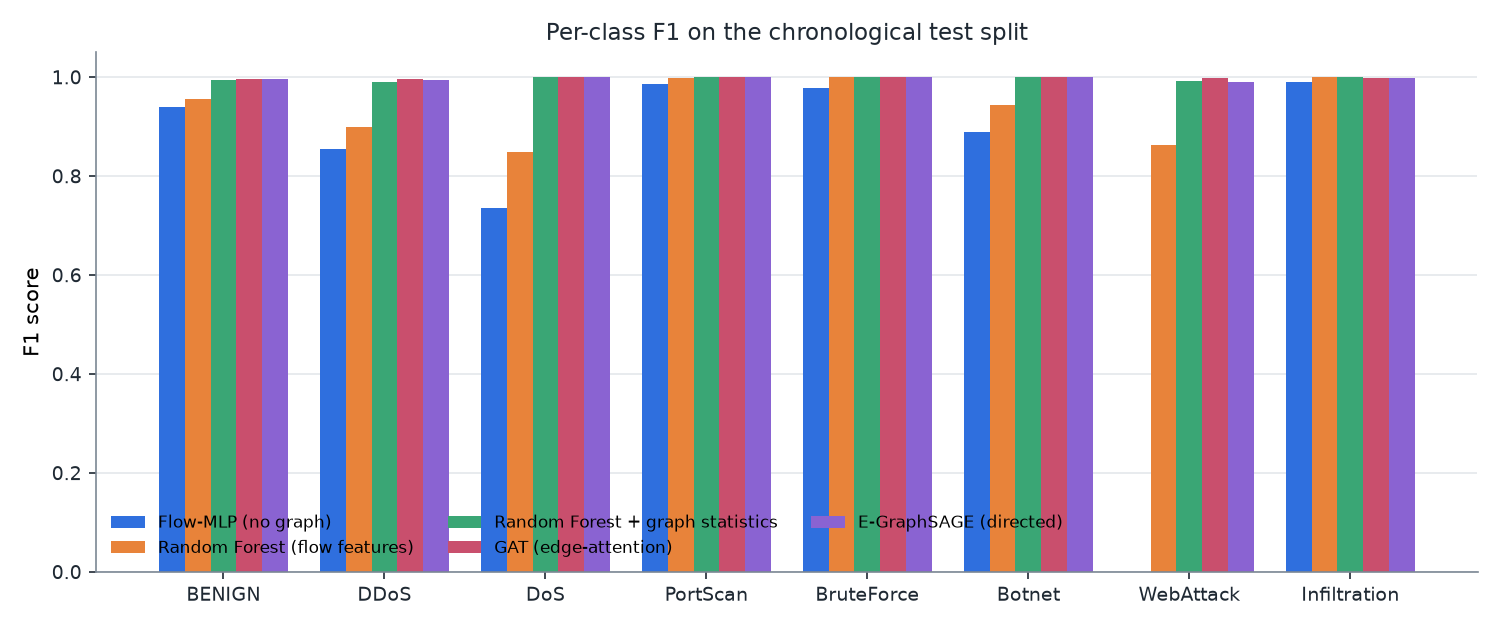
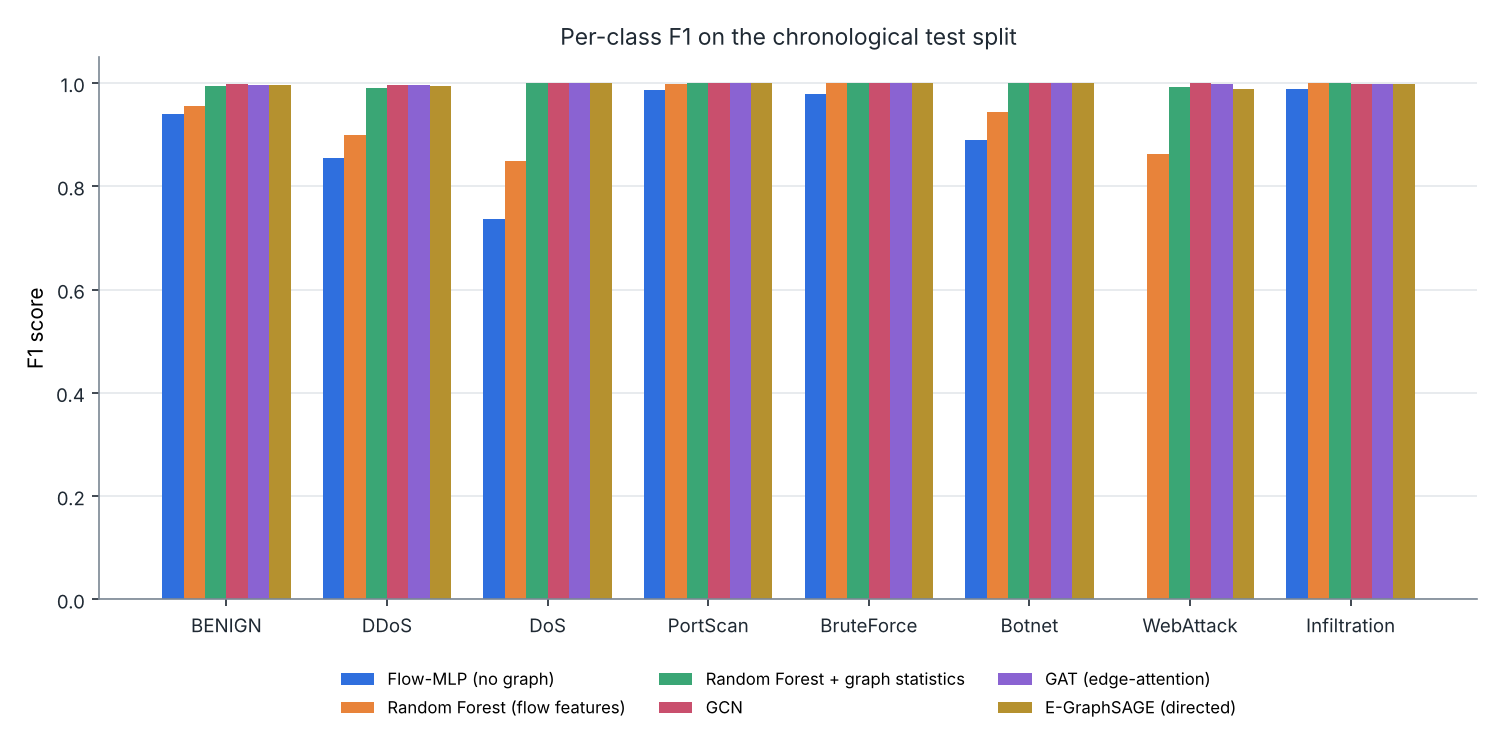
README results, fixed per-class chart; remove temporary CI log publishing

diff --git a/xgnn_ids/training/plots.py b/xgnn_ids/training/plots.py
@@ -52,7 +52,7 @@ def per_class_f1_figure(results: dict, models: list[str], labels: dict, path: Pa
     attack = CLASSES
     x = np.arange(len(attack))
     w = 0.8 / len(models)
-    fig, ax = plt.subplots(figsize=(10, 4.2))
+    fig, ax = plt.subplots(figsize=(10, 5.0))
     for i, m in enumerate(models):
         f1 = [results[m]["per_class"][c]["f1"] for c in attack]
         ax.bar(x + i * w - 0.4 + w / 2, f1, w, label=labels.get(m, m), color=PALETTE[i % len(PALETTE)])
@@ -60,7 +60,7 @@ def per_class_f1_figure(results: dict, models: list[str], labels: dict, path: Pa
     ax.set_ylim(0, 1.05)
     ax.set_ylabel("F1 score")
     ax.set_title("Per-class F1 on the chronological test split", fontsize=11, color=INK)
-    ax.legend(fontsize=8, frameon=False, ncol=3, loc="lower left")
+    ax.legend(fontsize=8, frameon=False, ncol=3, loc="upper center", bbox_to_anchor=(0.5, -0.1))
     _style(ax)
     fig.tight_layout()
     fig.savefig(path, dpi=150)

diff --git a/xgnn_ids/training/experiment.py b/xgnn_ids/training/experiment.py
@@ -238,7 +238,7 @@ def run_experiment(data_paths=None, out_dir="results", models_dir="models", quic
     labels = DISPLAY
     plots.confusion_figure(results[default]["confusion_matrix"], f"Confusion matrix - {labels[default]}",
                            out / "confusion_matrix.png")
-    plots.per_class_f1_figure(results, [m for m in ("mlp", "rf", "rf_graphstats", "gat", "egraphsage")
+    plots.per_class_f1_figure(results, [m for m in ("mlp", "rf", "rf_graphstats", "gcn", "gat", "egraphsage")
                                         if m in results], labels, out / "per_class_f1.png")
     plots.training_curves_figure({k: v["history"] for k, v in info.items()}, labels, out / "training_curves.png")
     if "adversarial" in report:

diff --git a/README.md b/README.md
@@ -15,6 +15,45 @@ have had to change for it to look benign, and a suggested response.
 Team: Sai Chandra Reddy (24BYB0011), N Rishi Pranav (24BYB0082).*
 
 <!-- RESULTS_START -->
+## Results at a glance
+
+Measured on a chronological split (train on the past, test on the future) of 63,476 flows from the built-in
+enterprise-network simulation; full tables, method and figures in [results/RESULTS.md](results/RESULTS.md).
+
+| | Flow-only model | Graph model (GCN) |
+|---|---|---|
+| Macro-F1 across 8 classes | 0.939 (Random Forest) | **0.999** |
+| DDoS F1 | 0.900 | **0.997** |
+| False-positive rate on benign traffic | 4.9% | **0.10%** |
+| Attacks still detected under white-box evasion (ε = 1 std) | 62% (Flow-MLP) | **96%** |
+| Inference time per 20 s window (CPU) | 25.7 ms | **1.0 ms** |
+
+- **Explanations are measured, not assumed.** Integrated Gradients over the flow and its two hosts:
+  fidelity+ 5.8 log-odds vs 0.4 for a random explainer, 94% stability, ~60 ms per alert. For *which
+  neighbouring flows mattered*, edge Integrated Gradients reaches fidelity+ 3.3 and 90% stability, while
+  GNNExplainer (the usual choice in GNN-IDS papers) was no better than random (0.18) - so it is kept only
+  for comparison.
+- **Zero-day:** with one family never labelled, 6 of 7 families are still flagged (≥96% of their flows);
+  low-volume botnet beaconing is the one that slips through.
+- **New network:** on an unseen IoT network every model loses accuracy and the drift monitor fires
+  (PSI 0.62). Fine-tuning on ~4 minutes of local traffic cuts GCN false alarms from 72% to 0.1% while keeping
+  office-network accuracy at 0.996.
+
+![per-class F1](results/per_class_f1.png)
+
+Example of an explanation the console produces (Botnet alert):
+
+> **Botnet** detected with 100% confidence on flow `192.168.10.159:54747 -> 66.137.26.58:6667/TCP`.
+> - **Network context:** 66.137.26.58 received 12 flows from 8 distinct sources in this 20s window.
+> - **Neighbouring flows:** 9 of 299 neighbouring flows carry 80% of the structural evidence; 100% of it
+>   comes from flows towards the same destination.
+> - Removing the 13 most important neighbouring flows from message passing would make it look BENIGN.
+> - **MITRE ATT&CK:** T1071 · **Response:** isolate the internal hosts, block the C2 address.
+
+More: [results/example_explanations.md](results/example_explanations.md).
+
+*Numbers come from synthetic traffic and should not be compared with papers that use CIC-IDS2017 directly;
+the same pipeline trains on real datasets (see [docs/DATASETS.md](docs/DATASETS.md)).*
 <!-- RESULTS_END -->
 
 ## What it does
@@ -22,10 +61,10 @@ Team: Sai Chandra Reddy (24BYB0011), N Rishi Pranav (24BYB0082).*
 | Capability | Details |
 |---|---|
 | Graph-based detection | Directed temporal flow graphs; edge-level **E-GraphSAGE** (direction-aware), **GAT** (edge-feature attention), **GCN**; flow-only MLP, Random Forest and Gradient Boosting baselines |
-| Explainability | **Integrated Gradients**, **SHAP**, **GNNExplainer** (which neighbouring flows matter), **counterfactuals** (what would make it benign), plain-language **network evidence** |
+| Explainability | **Integrated Gradients** and **SHAP** over the flow and its two hosts, **edge Integrated Gradients** and **GNNExplainer** (which neighbouring flows matter), **counterfactuals** (what would make it benign), plain-language **network evidence** |
 | Explanation quality, measured | Fidelity+, fidelity-, sparsity, stability and runtime for every explainer, against a random baseline |
 | From alerts to action | **Incident correlation** (thousands of alerts → a few incidents), **MITRE ATT&CK** mapping, suggested **iptables / nftables** rules |
-| Robustness | **Zero-day** leave-one-attack-out test, **adversarial** evasion (white-box PGD), **cross-domain** test on an unseen IoT network, **concept-drift** monitor (PSI) |
+| Robustness | **Zero-day** leave-one-attack-out test, **adversarial** evasion (white-box PGD), **cross-domain** test on an unseen IoT network with **few-shot adaptation**, **concept-drift** monitor (PSI) |
 | Data sources | Built-in realistic traffic generator, CIC-IDS2017 / CSE-CIC-IDS2018 / CICDDoS2019, NF-* NetFlow datasets, pcap files, **live capture** |
 | Interfaces | Streamlit analyst console with an **attack simulator** and live replay, REST API (FastAPI), command line, Docker |
 
